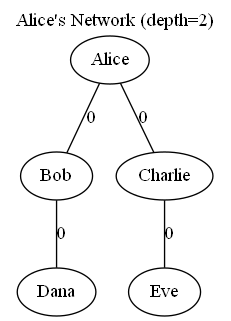
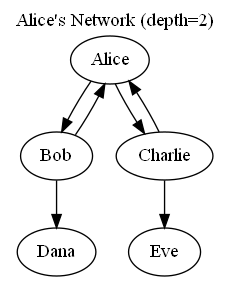
added more screenshots and adjusted code to accurately represent network.

Changed region(s): [[0.0606, 0.0285, 0.9394, 0.6548], [0.0606, 0.6833, 0.4242, 0.9964], [0.5455, 0.6833, 0.8788, 0.9964]]

diff --git a/src/profile_manager.py b/src/profile_manager.py
@@ -177,11 +177,13 @@ class ProfileManager:
 
         nodes = {current_user}
         frontier = {current_user}
-
+        edges_list = self.graph.get_edges()
+        edges = []
         for _ in range(depth):
             next_frontier = set()
             for name in frontier:
                 vertex = self.graph.get_vertex(name)
+                vertex_id = vertex.get_id()
                 if vertex is None:
                     continue
                 for nbr in vertex.get_connections():
@@ -189,24 +191,27 @@ class ProfileManager:
                     if nbr_name not in nodes:
                         nodes.add(nbr_name)
                         next_frontier.add(nbr_name)
+                    if (vertex_id,nbr_name,0) in edges_list:
+                        edges.append((vertex_id,nbr_name,0))
             frontier = next_frontier
 
-        edges = []
-        for u, v, w in self.graph.get_edges():
-            if u in nodes and v in nodes:
-                edges.append((u, v, w))
-
         try:
-            from graphviz import Graph
+            from graphviz import Digraph
 
-            g = Graph("Network", format="png")
+            g = Digraph("Network", format="png")
             g.attr(label=f"{current_user}'s Network (depth={depth})", labelloc="t")
 
             for n in sorted(nodes):
                 g.node(n)
 
+            drawn = set()
             for u, v, w in edges:
-                g.edge(u, v, label=str(w) if w is not None else "")
+                g.edge(u, v, label=str(w) if w not in (None, 0) else None)
+                drawn.add((u, v))
+                # Only draw reverse edge if it exists in the data
+                if (v, u) in edges and (v, u) not in drawn:
+                    g.edge(v, u, label=str(w) if w not in (None, 0) else None)
+                    drawn.add((v, u))
 
             output_file = g.render(filename=out_path, cleanup=True)
             print("Wrote:", output_file)
@@ -222,7 +227,7 @@ class ProfileManager:
                 for n in sorted(nodes):
                     f.write(f'  "{n}";\n')
                 for u, v, w in edges:
-                    label = f' [label="{w}"]' if w is not None else ""
+                    label = f' [label="{w}"]' if w not in (None, 0) else None
                     f.write(f'  "{u}" -- "{v}"{label};\n')
                 f.write("}\n")
 

diff --git a/src/graph_adt.py b/src/graph_adt.py
@@ -80,7 +80,7 @@ class UndirectedGraph:
         for from_key, vertex in self.vert_list.items():
             for nbr in vertex.get_connections():
                 to_key = nbr.get_id()
-                pair = tuple(sorted([from_key, to_key]))
+                pair = tuple([from_key, to_key])
                 if pair not in seen:
                     seen.add(pair)
                     edges.append((from_key, to_key, vertex.get_weight(nbr)))
